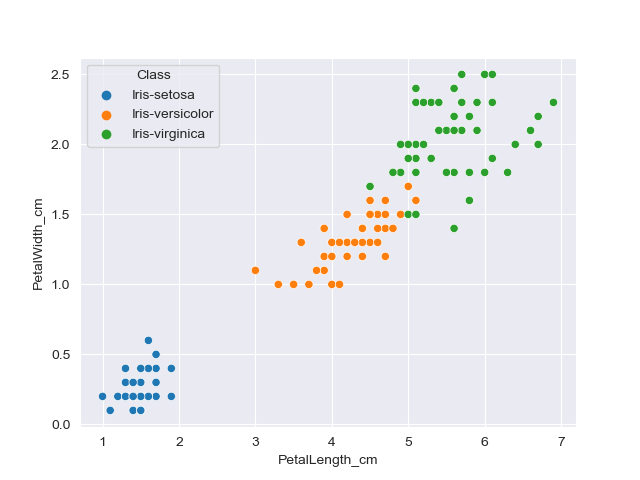
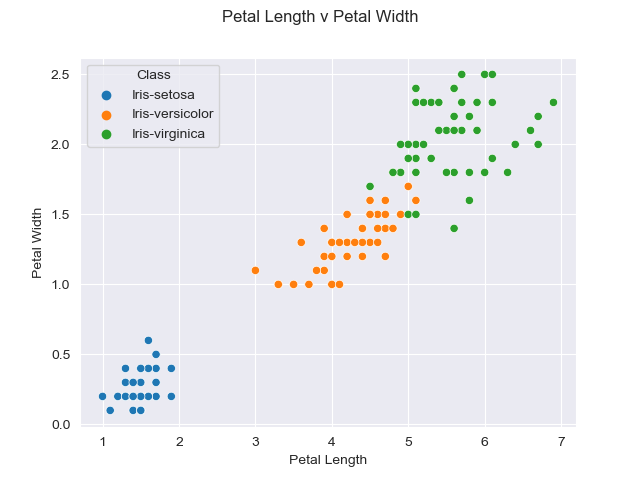
updated code and titles for scatter plots

Changed region(s): [[0.3438, 0.0, 0.6562, 0.0625], [0.0312, 0.4062, 0.0625, 0.5938], [0.4375, 0.9375, 0.5938, 0.9688]]

diff --git a/scatterPlot.py b/scatterPlot.py
@@ -15,25 +15,43 @@ from uploadDataSet import data # importing our data. Again, this wont be necessa
 plt.figure() # idea adapted from reference StackOverflow (reference 19) 
 sns.set_style("darkgrid") # adapted from StackOverflow (reference 20)
 sns.scatterplot(data=data, x=data['SepalLength_cm'], y=data['SepalWidth_cm'], hue = data['Class']) #setting properties of plot (reference 20)
+plt.xlabel('Sepal Length')
+plt.ylabel('Sepal Width')
+plt.suptitle('Sepal Length v Sepal Width', fontsize = 12) 
 plt.savefig('scatPlotSL_v_SW.png') # saving output to a new file
 
 plt.figure()
 sns.scatterplot(data=data, x=data['SepalLength_cm'], y=data['PetalWidth_cm'], hue = data['Class']) 
+plt.xlabel('Sepal Length')
+plt.ylabel('Petal Width')
+plt.suptitle('Sepal Length v Petal Width', fontsize = 12) 
 plt.savefig('scatPlotSL_v_PW.png')
 
 plt.figure()
 sns.scatterplot(data=data, x=data['SepalLength_cm'], y=data['PetalLength_cm'],hue = data['Class']) 
+plt.xlabel('Sepal Length')
+plt.ylabel('Petal Length')
+plt.suptitle('Sepal Length v Petal Length', fontsize = 12) 
 plt.savefig('scatPlotSL_v_PL.png')
 
 plt.figure()
 sns.scatterplot(data=data, x=data['PetalLength_cm'], y=data['PetalWidth_cm'], hue = data['Class'])
+plt.xlabel('Petal Length')
+plt.ylabel('Petal Width')
+plt.suptitle('Petal Length v Petal Width', fontsize = 12) 
 plt.savefig('scatPlotPL_v_PW.png')
 
 plt.figure()
 sns.scatterplot(data=data, x=data['PetalLength_cm'], y=data['SepalWidth_cm'], hue = data['Class']) 
+plt.xlabel('Petal Length')
+plt.ylabel('Sepal Width')
+plt.suptitle('Petal Length v Sepal Width', fontsize = 12) 
 plt.savefig('scatPlotPL_v_SW.png')
 
 plt.figure()
 sns.scatterplot(data=data, x=data['SepalWidth_cm'], y=data['PetalWidth_cm'], hue = data['Class']) 
+plt.xlabel('Sepal Width')
+plt.ylabel('Petal Width')
+plt.suptitle('Sepal Width v Petal Width', fontsize = 12) 
 plt.savefig('scatPlotSW_v_PW.png')
 
